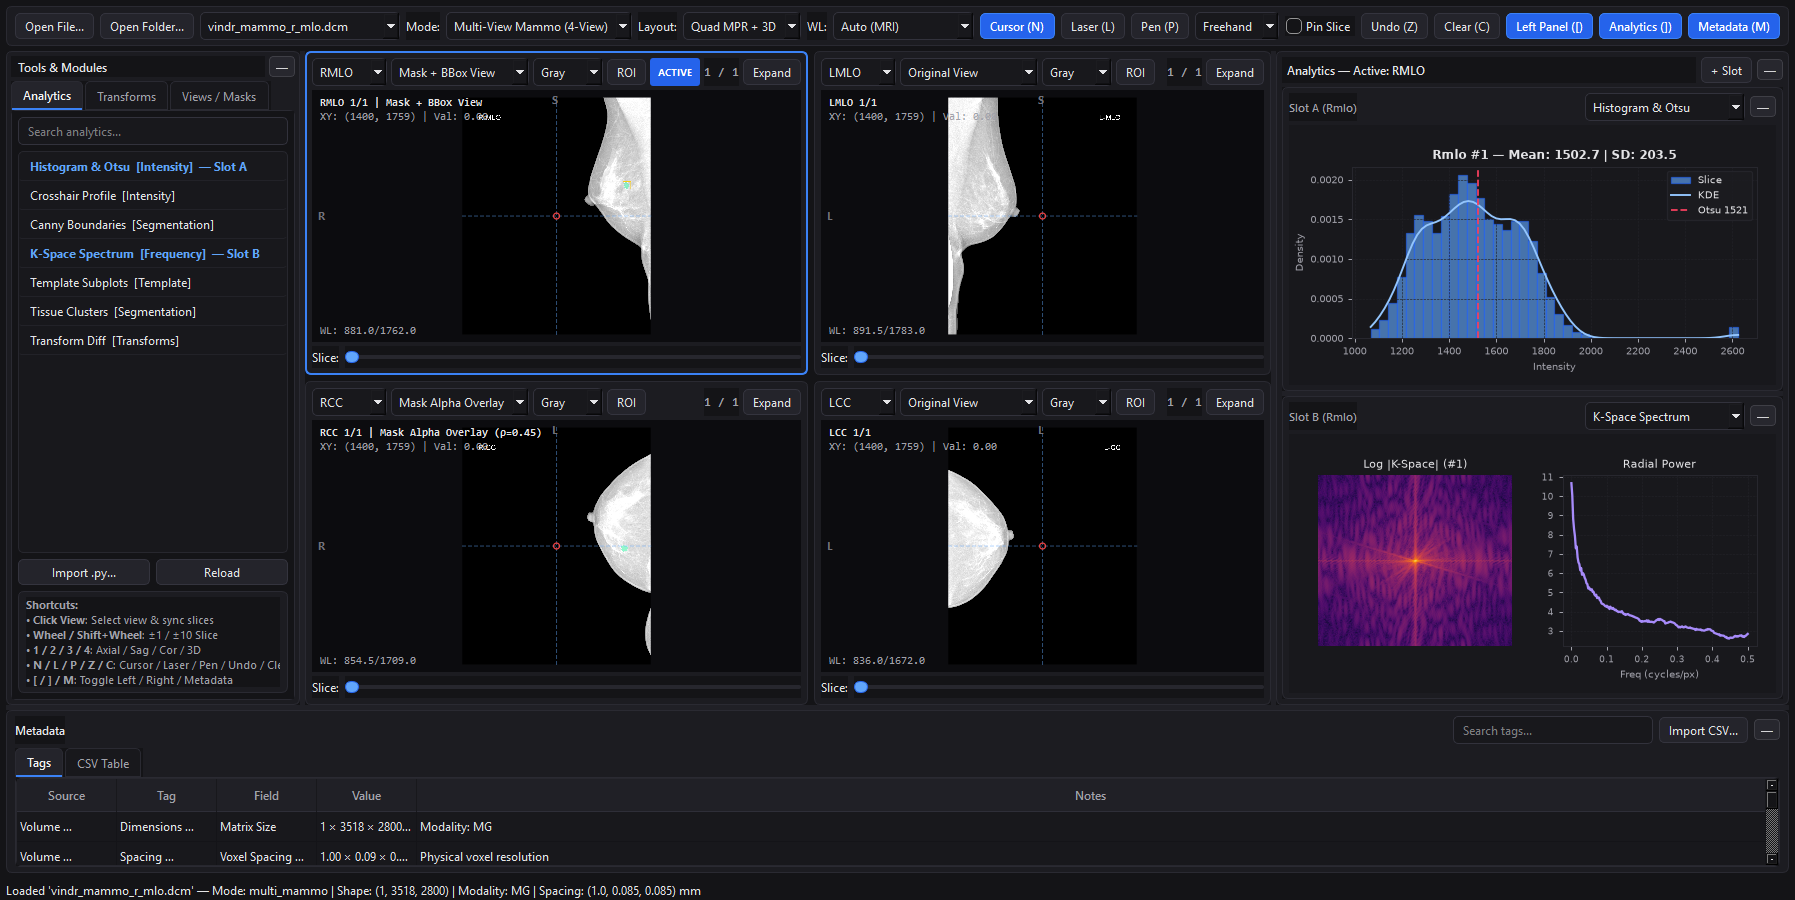
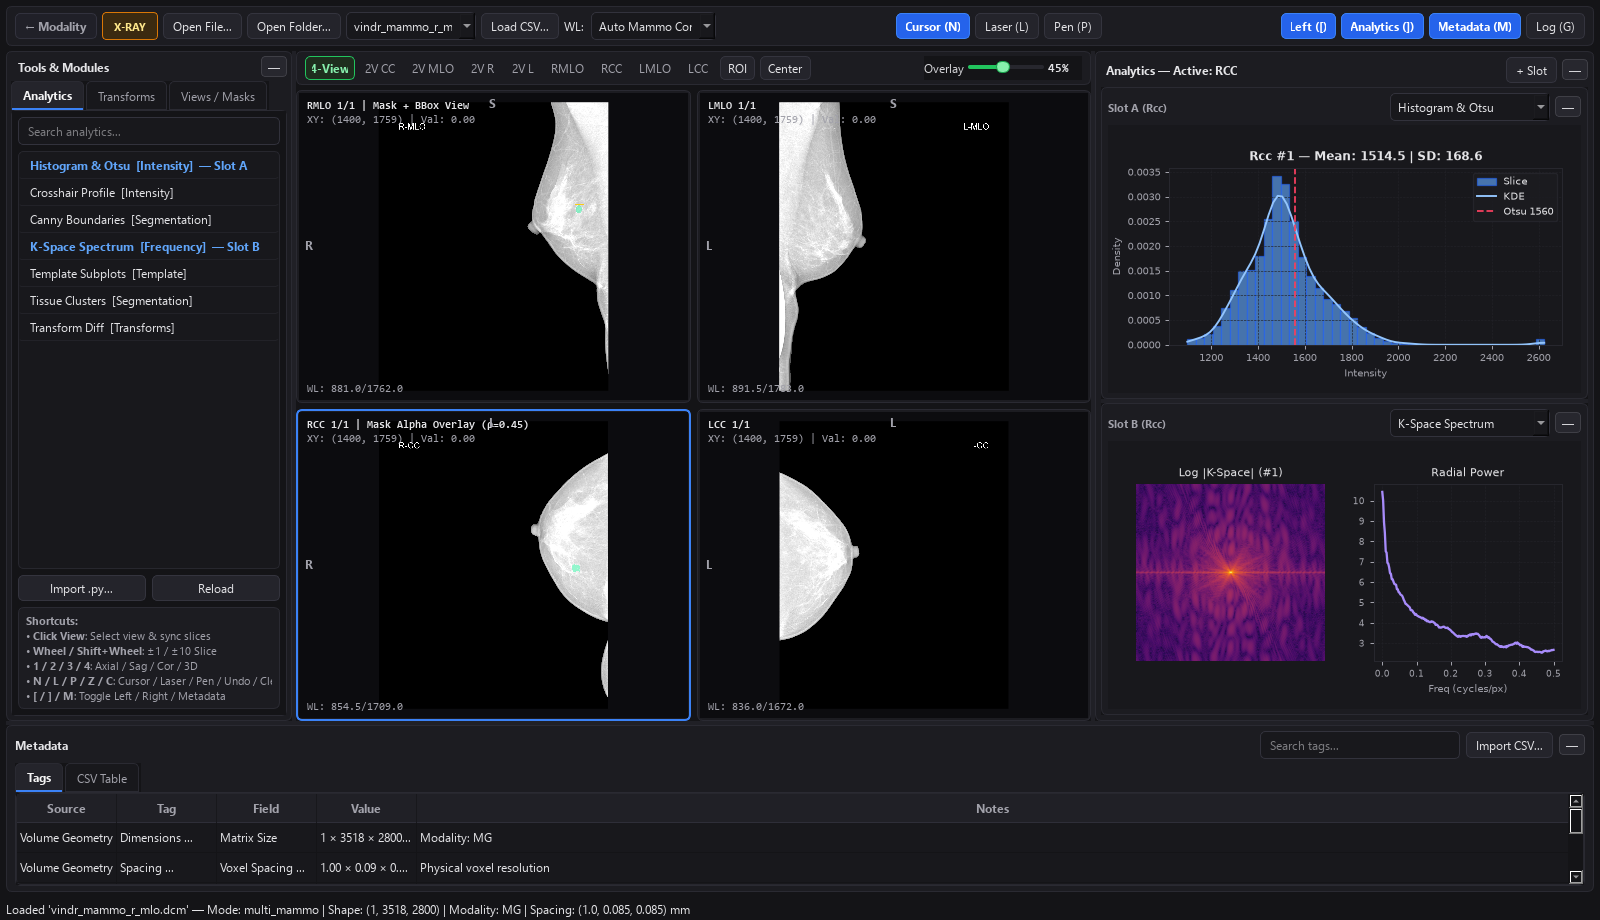
update readme visuals and documentation

diff --git a/README.md b/README.md
@@ -29,13 +29,16 @@ Need to write your own analytics, transforms, and views **in python** :'(, refer
 
 ## UI Overview
 
-### 1. 3D MRI / Volume Mode (`Quad MPR + 3D Sliced Volume`)
+### 1. Modality Selection Launcher (`MRI`, `CT`, `X-RAY`)
+![MIAV Modality Launcher](assets/ui-launcher.png)
+
+### 2. 3D MRI Workspace (`3-Plane MPR + 3D Cut-Perspective & Terminal Log`)
 ![MIAV 3D Brain MRI Workstation](assets/ui-mri-3d.png)
 
-### 2. Multi-View Digital Mammography (`RMLO`, `LMLO`, `RCC`, `LCC`)
+### 3. X-Ray (Mammo) Workspace (`4-View Screening: RMLO, LMLO, RCC, LCC`)
 ![MIAV 4-View Digital Mammography](assets/ui-mammo-quad.png)
 
-### 3. Segmentation Mask Views & Alpha Blending (`(1 - ρ)·Image + ρ·Mask`)
+### 4. Segmentation Mask Views & Top-Bar Alpha Blending (`(1 - ρ)·Image + ρ·Mask`)
 ![MIAV Segmentation Mask & Alpha Overlay](assets/ui-segmentation-mask.png)
 
 ---
@@ -44,29 +47,27 @@ Below is some ai text to help you get it working. Hopefully it will be easier to
 
 ## Key Features
 
-- **Input Modality Auto-Detection & Selector (`3D MRI`, `2D MRI`, `Single-View Mammo`, `Multi-View Mammo`)**:
-  - Automatically detects the modality/view mode on load (or lets you override it from the top `Mode:` dropdown).
-  - **3D MRI / CT Volume (`mri_3d`)**: View selector offers `Axial`, `Sagittal`, `Coronal`, and `3D View`.
-  - **Mammography (`single_mammo` / `multi_mammo`)**: No 3D view; the Quad layout displays all 4 mammography views (**`RMLO`**, **`LMLO`**, **`RCC`**, **`LCC`**), and each viewport's view selector offers `RCC`, `LCC`, `RMLO`, `LMLO`.
-  - **2D MRI / Other 2D Images (`mri_2d`)**: Focused `Single View`.
-- **3D Volume Viewer Modes (`Sliced Volume`, `Whole Volume`, `Ortho Slices`)**:
-  - **`Sliced Volume`**: Dynamically cuts the 3D volume open along whichever 2D view (`Axial`, `Sagittal`, or `Coronal`) is currently selected for analytics at slice `p` out of `N` (`0 → p` for Axial with slice `p` on top; `N → p` for Sagittal and Coronal facing the viewer).
-  - **`Whole Volume`**: Full 3D volumetric rendering (`Translucent`, `MIP`, `Bone`).
+- **Modality-Tailored Workspaces (`MRI`, `CT`, `X-RAY`)**:
+  - Launch directly into a dedicated workspace for **MRI**, **CT (Hounsfield Units)**, or **X-Ray (Digital Mammography)** from realistic clinical preview cards, removing unrelated toolbar and viewport clutter.
+  - **Top Viewport Bar**: Switch cleanly between **`3-Plane`**, **`Axial`**, **`Coronal`**, **`Sagittal`**, and **`3D`** in 3D MRI/CT mode, or **`4-View`**, **`2V CC`** (`RCC` | `LCC`), **`2V MLO`** (`RMLO` | `LMLO`), **`2V R`** (`RMLO` | `RCC`), **`2V L`** (`LMLO` | `LCC`), and single views (**`RMLO`**, **`RCC`**, **`LMLO`**, **`LCC`**) in 2D X-Ray/Mammo mode (with 3D red crosshair lines hidden on 2D radiographs). Also includes **`3D Cut-Perspective`**, **`ROI`**, **`Center`** (`F`), **`Sliders`**, and the dynamic **`Overlay`** alpha slider.
+- **3D Volume Viewer (`3D Cut-Perspective`, Surface-Shaded `Whole Volume`, `Ortho Slices` & Orientation Cube)**:
+  - **`3D Cut-Perspective` (`Sliced Volume`)**: Dynamically cuts the 3D brain/organ volume open along whichever 2D view (`Axial`, `Sagittal`, or `Coronal`) is currently selected for analytics, with a live **`(C)oronal` / `(S)agittal` / `(A)xial`** orientation cube in the corner.
+  - **`Whole Volume`**: 3D volumetric raycaster with 3D gradient surface normals, Phong/Lambertian lighting, and ray-jitter dithering (`Translucent`, `MIP`, `CT Bone`).
   - **`Ortho Slices`**: 3D intersecting orthogonal slice planes.
 - **Segmentation Masks & Modular Views (`@view_plugin`)**:
   - **Show as Another View**: Display the standalone `Segmentation Mask` in a companion viewport synchronized to the active slice.
-  - **Alpha Overlay (`(1 - ρ)·Image + ρ·Mask`)**: Combines the original slice and segmentation mask strictly where `mask == 1` (`mask > 0`), controlled by a real-time $\rho$ (`Alpha`) slider (`0.00` – `1.00`) and color selector (`Emerald`, `Red`, `Cyan`, `Yellow`, `Grayscale`).
+  - **Top-Bar Alpha Overlay (`(1 - ρ)·Image + ρ·Mask`)**: Combines the original slice and segmentation mask strictly where `mask == 1` (`mask > 0`), controlled by a live top-bar `Overlay` slider (`0%` – `100%`) and color selector (`Emerald`, `Red`, `Cyan`, `Yellow`, `Grayscale`).
   - **Modular Python Views**: Write custom `@view_plugin` scripts in Python to visualize custom dataset overlays, masks, contours, or bounding boxes.
-- **Real-Time Drag-and-Drop Python Analytics (`@analytics_plugin`)**:
+- **Real-Time Drag-and-Drop Python Analytics (`@analytics_plugin`) & 2D ROI Subpart Analysis**:
   - Drag any Python analytics module from the left sidebar and drop it onto **Analytics Slot A, B, or C**.
-  - Plots update in real time (`~60 Hz` conflated) as you scroll 3D slices, move crosshairs, draw a 2D ROI box, or tune image transforms.
+  - Toggle **`ROI`** in the top viewport bar and drag a rectangle on any 2D slice to focus analytics (histograms, Otsu/multi-Otsu tissue segmentation, Canny/Frangi vesselness, etc.) on that exact 2D ROI subpart.
 - **Live Albumentations & Image Transform Pipeline (`@transform_plugin`)**:
   - Stack and tune deterministic **Albumentations**, **OpenCV**, **SciPy**, and **MRI Artifact** transformations (`CLAHE`, `Gamma`, `Brightness/Contrast`, `Equalize`, `Posterize/Invert`, `Zoom`, `Rotate`, `Flip/Transpose`, `Elastic Deformation`, `Gaussian/Median Blur`, `Sharpen/Unsharp Mask`, `Emboss`, `Gaussian/Rician Noise`, `MRI RF Bias Field`, `K-Space Gibbs Ringing`) with auto-generated interactive sliders and alpha blending.
 - **Presentation & Ephemeral Annotation Modes**:
   - **Laser Pointer Trail (`L`)**: Clicking and dragging draws a glowing red cursor trail that persists briefly and smoothly fades out over `~1.35 seconds`.
-  - **Persistent Freehand Pen (`P`)**: Draws annotations that remain across slice scrolling (**Screen-Pinned** by default, or toggle **Pin to Slice**), and automatically clear when you press **Clear (`C`)**, switch to another image/study, or close the app.
-- **Polars Tabular Metadata Inspector**:
-  - Real-time search and filtering over DICOM tags, NIfTI headers, FastMRI XML attributes, and external FastMRI/clinical `.csv` cohorts powered by `polars`.
+  - **Persistent Pen (`P`)**: Draws Freehand, Line, or Rectangle annotations that remain across slice scrolling (**Screen-Pinned** by default, or toggle **Pin**), with contextual Pen tools that appear only when Pen mode is active.
+- **Polars Metadata Inspector & Terminal Technical Log (`G`)**:
+  - Real-time search and filtering over DICOM tags, NIfTI headers, FastMRI XML attributes, and clinical `.csv` cohorts powered by `polars`, paired with a collapsible terminal-style **Technical Log** (`> image loaded: ...`) at the bottom.
 
 ---
 
@@ -95,28 +96,41 @@ python main.py
 python main.py sample_data/fastmri_knee_singlecoil.h5
 ```
 
+### 4. Run the Modular Test Suites
+```bash
+python tests/test_miav.py
+# Or run individual logical test suites:
+python tests/test_loaders_and_models.py
+python tests/test_plugins_and_transforms.py
+python tests/test_viewport_and_navigation.py
+python tests/test_workspaces_and_ui.py
+```
+
 ---
 
 ## Keyboard & Mouse Shortcuts
 
 | Shortcut / Action | Description |
 | :--- | :--- |
-| `Left-Click on Slice` | Selects view for analytics (blue border) and syncs the other 2 orthogonal slices to that 3D point |
-| `Mouse Wheel` | Scroll `+1 / -1` slice in hovered 2D or 3D viewport |
-| `Shift + Mouse Wheel` | Fast scroll `+10 / -10` slices |
-| `Up / Down` or `K / J` | Step `+1 / -1` slice on active viewport |
+| `Left-Click on Slice` | Selects view for analytics (blue border) and syncs the other 2 orthogonal slices to that 3D point (clicking in black letterbox margins selects the view without moving the crosshair) |
+| `Mouse Wheel (2D View)` | Scroll `+1 / -1` slice in the **hovered** 2D viewport (and syncs crosshairs on the other views) |
+| `Mouse Wheel (3D View)` | Zoom in / out in the 3D volume viewport |
+| `Shift + Mouse Wheel` | Fast scroll `+10 / -10` slices in the hovered 2D viewport |
+| `Arrow Keys (Up/Down/Left/Right)` | Move the 3D crosshair on the **selected** 2D viewport (updating orthogonal slices) |
 | `1`, `2`, `3`, `4` | Select **Axial (`1`)**, **Sagittal (`2`)**, **Coronal (`3`)**, or switch to **3D View (`4`)** |
-| `Space` | Cycle divided-screen layout (`Quad MPR + 3D` $\leftrightarrow$ `Dual` $\leftrightarrow$ `Single View`) |
+| `Space` | Cycle view tabs (`3-Plane` $\leftrightarrow$ `Axial` $\leftrightarrow$ `Coronal` $\leftrightarrow$ `Sagittal` $\leftrightarrow$ `3D`) |
 | `N` or `Esc` | Activate **Cursor** mode (crosshair navigation) |
 | `L` | Activate **Laser** mode (fading red presentation trail) |
-| `P` | Activate **Pen** mode (supports **Freehand**, **Line**, and **Rectangle** via dropdown) |
+| `P` | Activate **Pen** mode (shows **Freehand**, **Line**, **Rectangle**, **Pin**, **Undo**, and **Clear** controls) |
 | `Z` or `Ctrl + Z` | **Undo** the last drawn Pen annotation |
 | `C` | Clear all persistent pen drawings |
 | `O` | Toggle **Mask Alpha Overlay** (`(1 - ρ)·Image + ρ·Mask` where `Mask = 1`) on active viewport |
-| `[` / `]` / `M` | Toggle **Left Panel (`[`)**, **Right Analytics Panel (`]`)**, or **Metadata Panel (`M`)** |
+| `[` / `]` / `M` / `G` | Toggle **Left Panel (`[`)**, **Right Analytics Panel (`]`)**, **Metadata (`M`)**, or **Technical Log (`G`)** |
 | `R` | Reset Window/Level, zoom/pan, and 3D camera |
 | `Right-Click + Drag` | Adjust **Window Width** (horizontal) and **Window Level** (vertical) |
-| `Ctrl + Mouse Wheel` | Zoom in / out |
+| `Ctrl + Mouse Wheel` | Zoom in / out anchored at the current mouse cursor position |
+| `Ctrl + Left-Click + Drag` | Pan / move the zoomed image without changing the crosshair or active view |
+| `F`, `Home`, or `Ctrl + 0` | **Center** zoomed/panned image back into the viewport (without resetting Window/Level) |
 | `Middle-Click + Drag` | Pan slice |
 
 ---
